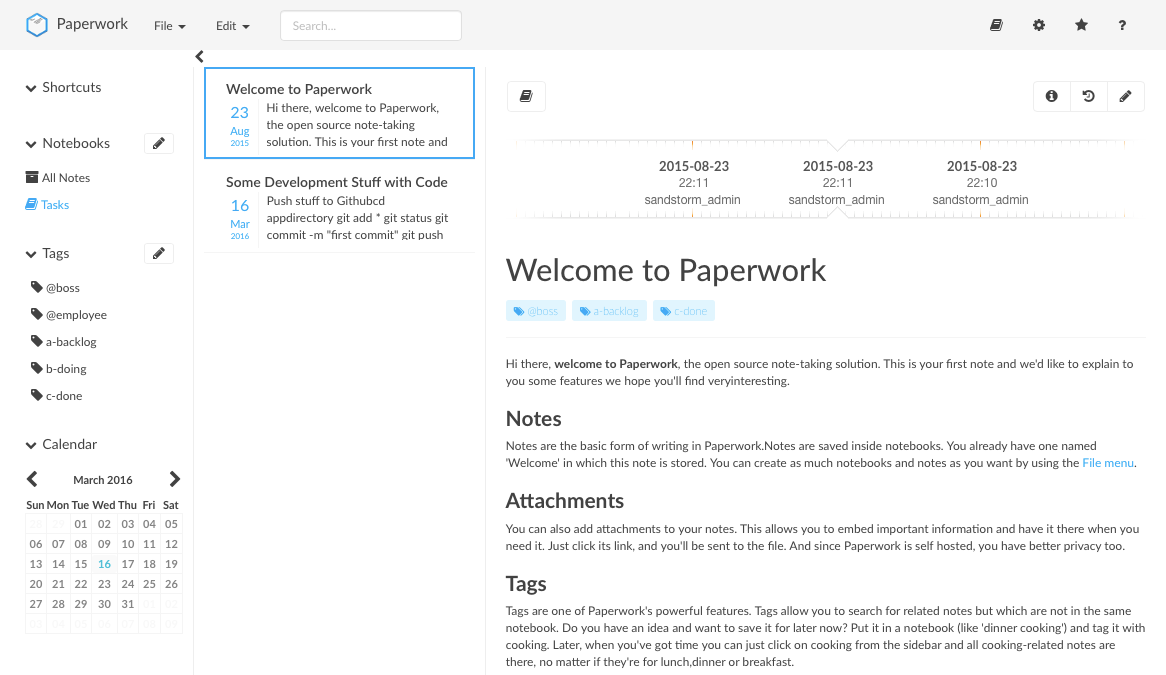
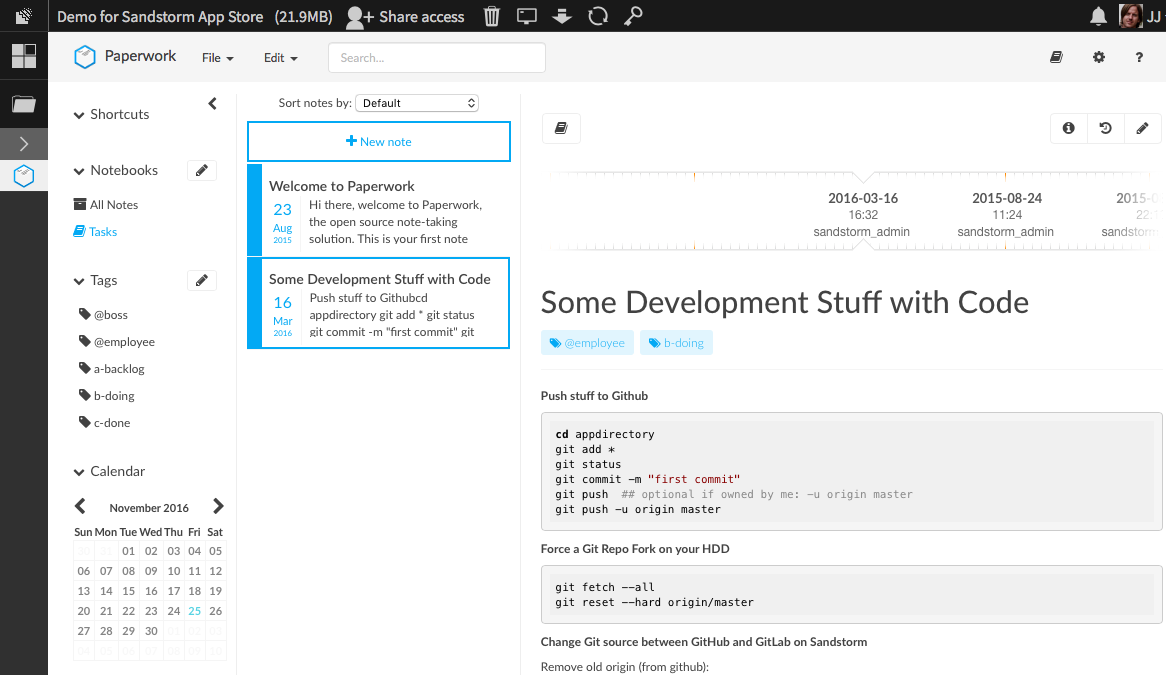
Updated App Market info
- new images
- change log
- pkg def

diff --git a/.sandstorm/CHANGELOG.md b/.sandstorm/CHANGELOG.md
@@ -1,3 +1,16 @@
+## Version 8
+
+Bugfixes:
+- Some performance improvements due to update to latest Paperwork version
+- Fixed a blank screen issue due to update to latest Paperwork version https://github.com/JamborJan/paperwork/issues/45
+- Import issues fixed, see https://github.com/twostairs/paperwork/issues/667 (the import is still kind of weak)
+
+House keeping:
+- Improved build process to allow easier updates of the Sandstorm port when Paperwork is updated
+- Updated to latest Paperwork version
+- Updated the vagrant lemp-stack settings
+- Updated from nodejs version 5 to version 6 LTS
+
 ## Version 7
 This version has a new app ID. It requires Sandstorm v0.146 (2016-02-21) to allow seamless update to this version.
 
